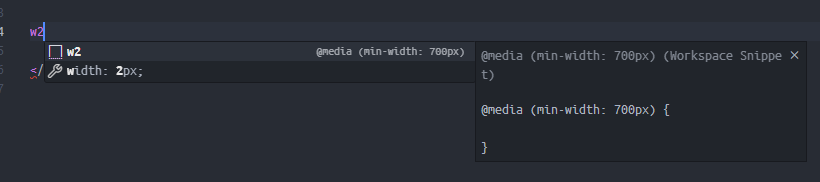
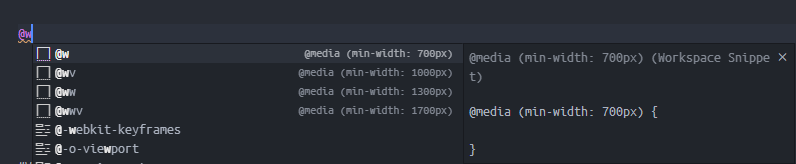
z

diff --git a/packages/docs/css/Breakpoints.md b/packages/docs/css/Breakpoints.md
@@ -8,6 +8,8 @@ CSS 媒体查询为 vscode 用户片段。
 
 ![Breakpoints for VS Code](./Breakpoints.png)
 
+其中，`w` 和 `ww` 为 CSS 预设会考虑支持的断点前缀，具体需参照各页面的介绍。其余仅支持 vscode 用户片段。由于 `w` 已经被使用，“半个 w” 用 v 表示。
+
 宽度断点及常用设备：
 
 | Pixel      | Device                    | Breakpoint | Note             |
@@ -17,20 +19,20 @@ CSS 媒体查询为 vscode 用户片段。
 | 375px      | iPhone SE (2x)            |            |                  |
 | 393px      | iPhone 15 (3x)            |            |                  |
 | 430px      | iPhone 15 Pro Max (3x)    |            |                  |
-| 444px      |                           | w1         |                  |
+| 444px      |                           | v          |                  |
 | 450px      | Desktop Firefox           |            |                  |
 | 500px      | Desktop Google Chrome     |            |                  |
-| **700px**  |                           | **w2**     | **平板分界线**   |
+| **700px**  |                           | **w**      | **平板分界线**   |
 | 744px      | iPad Mini 6 (2x)          |            |                  |
 | 768px      | iPad Mini 4 (2x)          |            |                  |
-| 1000px     |                           | w3         |                  |
+| 1000px     |                           | wv         |                  |
 | 1024px     | iPad Mini 4 (2x)          |            |                  |
 | 1133px     | iPad Mini 6 (2x)          |            |                  |
 | 1280px     | HD                        |            |                  |
-| **1300px** |                           | **w4**     | **笔记本分界线** |
+| **1300px** |                           | **ww**     | **笔记本分界线** |
 | 1366px     | iPad Pro 12.9' (6th) (2x) |            |                  |
 | 1366px     | 13' Laptop                |            |                  |
-| 1700px     |                           | w5         |                  |
+| 1700px     |                           | wwv        |                  |
 | 1920px     | FHD                       |            |                  |
 | 2560px     | 2K                        |            |                  |
 

diff --git a/packages/docs/design/Sizing.md b/packages/docs/design/Sizing.md
@@ -7,8 +7,8 @@
 | Custom Property | Unit |
 | --------------- | ---- |
 | `--0`           | 0    |
-| `--1`           | 2px  |
-| `--2`           | 3px  |
+| `--1`           | 1px  |
+| `--2`           | 2px  |
 | `--3`           | 5px  |
 | `--4`           | 10px |
 | `--5`           | 20px |
